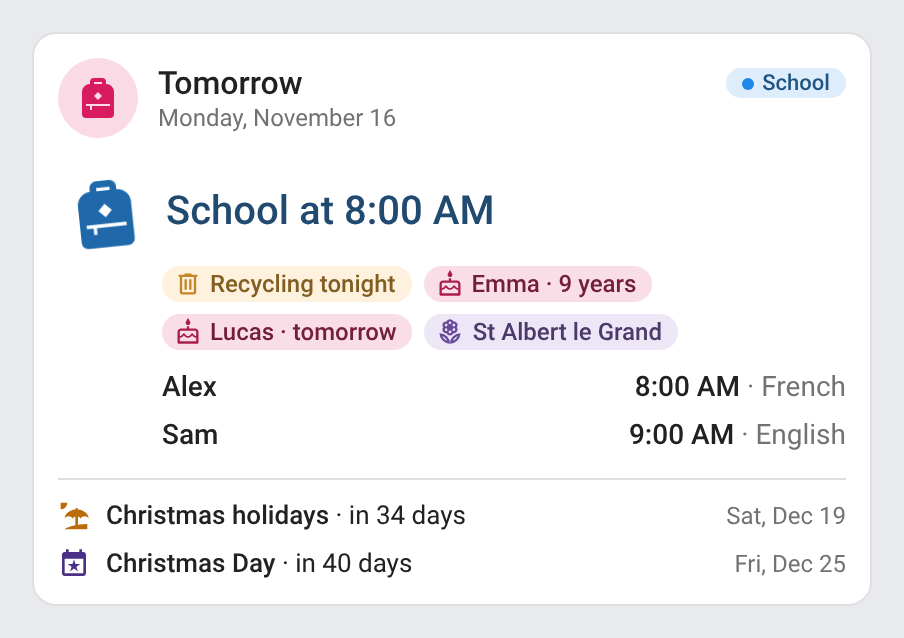
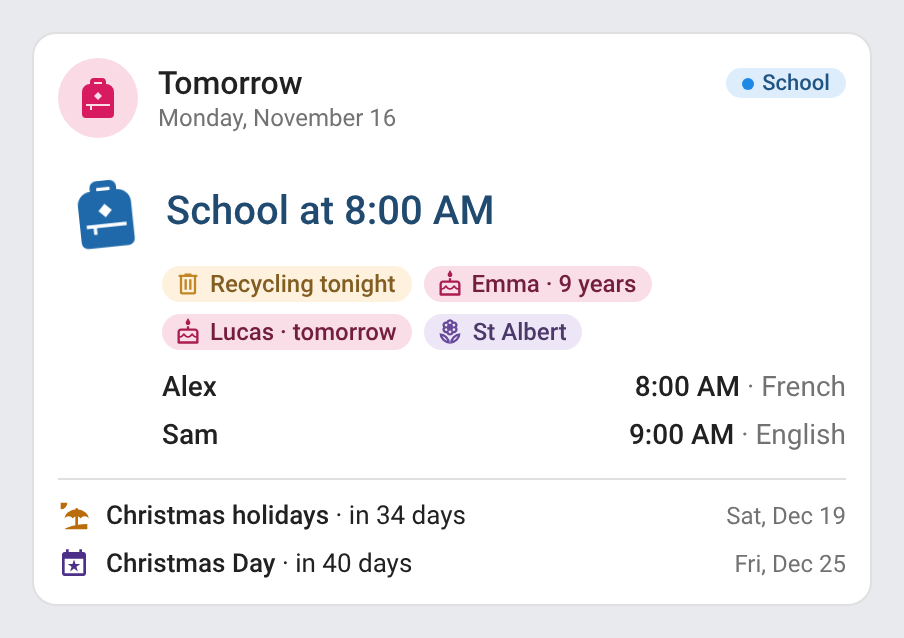
fix: traditional name day on the chip, data.gouv.fr saints in its tooltip (1.1.1) (#4)
The name day chip of 1.1.0 showed a saint of data.gouv.fr's *Les saints et fêtes du calendrier*: the liturgical saints, in alphabetical order, where the name day to wish is missing on 135 days of 366 (St Gaston, Ste Sophie, Ste Yvette…).

- The chip shows the name day of the traditional French calendar again (`NAME_DAYS`: St/Ste/Sts prefixes, feasts as they are).
- Its tooltip lists the saints of the day from the data set (`SAINTS`, unchanged: May/June fixed, accents and typos fixed).
- README and changelog updated; data.gouv.fr credit kept.

---
_Generated by [Claude Code](https://claude.ai/code/session_01F4sAmyxsoBJjEEpesKZnFY)_

Changed region(s): [[0.6195, 0.4765, 0.7743, 0.5658]]

diff --git a/src/family-day-card.js b/src/family-day-card.js
@@ -1270,7 +1270,8 @@ const CALENDAR_REFRESH_MS = 6 * 3600e3;
 // Open Licence: https://www.data.gouv.fr/datasets/les-saints-et-fetes-du-calendrier), one month per entry, days split
 // by "|", the saints of a day by ";". Fixed from the file of 2024-09-07: May and June put back in place (they are
 // swapped there, June with a 31st), broken accents and typos corrected, and on each day the saint of the traditional
-// French calendar of name days moved first when the data set has it (it gives the saints in alphabetical order).
+// French calendar of name days moved first when the data set has it (it gives the saints in alphabetical order). These
+// are the liturgical saints: the name days to wish (NAME_DAYS, below) are often not among them.
 const SAINTS = [
   "Jour de l'an;Ste Marie Mère de Dieu;Ste Euphrosine;St Odilon|St Basile le Grand;St Adélard (ou Adalhard);St Grégoire de Nazianze (le Jeune);St Macaire le Jeune|Ste Geneviève;Ste Bertille;St Daniel|Ste Angèle de Foligno;St Grégoire de Langres;St Marcien;St Robert de Reims|Ste Emilienne;St Télesphore|St Melaine de Rennes;St Balthazar;St Gaspard;St Guérin;St Melchior|St Raymond de Penyafort;St Aldric;St Canut Lavard;St Reynold|St Lucien;Ste Gudule|St Adrien de Canterbury;St Julien l'Hospitalier|St Guillaume de Bourges;Ste Séthride|Ste Fidelmie;St Théodose le Cénobiarque|St Arcade;Ste Césarie;Ste Tatienne (ou Tatiana)|St Hilaire de Poitiers;St Léonce de Césarée|St Engelmar;St Félix de Nole;Ste Macrine l'Ancienne|St Paul l'Ermite;Ste Tarcice|St Marcel 1er|St Antoine le Grand;St Sulpice le Pieux|Ste Prisque (ou Prisca);Ste Thècle|St Canut;Ste Messaline;Ste Pia|St Sébastien;St Fabien|Ste Agnès de Rome;St Fructueux|St Vincent Pallotti;St Vincent, Diacre|St Barnard;Ste Erémentienne;St Ildefonse de Tolède;Ste Lufthilde|St François de Sales|Conversion de St Paul|St Timothée;St Tite|Ste Angèle de Mérici;St Julien du Mans|St Callinique;Ste Cannera|St Gildas le Sage;St Valère;St Sulpice|Ste Martine;Ste Aldegonde;Ste Hyacinthe de Mariscotti|Ste Marcelle;St Cyrus;St Eusèbe, ermite;St Jean Bosco;St Zotique",
   "Ste Brigitte de Kildare;St Jean de la Grille;St Sévère de Ravenne|St Adalbaud;Chandeleur;Ste Hadéloge|St Blaise de Sébaste;St Anschaire|St André Corsini;St Gilbert de Sempringham;Ste Jeanne de Valois|Ste Agathe de Catane|Ste Dorothée;St Paul Miki|Ste Julienne de Bologne;St Chryseuil|St Jean de Matha;St Jérôme Emiliani|Ste Apolline|Ste Scholastique|Notre-Dame de Lourdes;St Adolphe|Ste Eulalie de Barcelone|Ste Béatrice d'Ornacieux;St Polyeucte|St Valentin;St Méthode|St Faustin;St Jovite|Ste Julienne de Nicomédie;St Onésime|St Polychrone;St Théodule|St Claude;St Flavien de Constantinople;St Fructule;Ste Gertrude Comensoli|St Gabin de Rome;St Boniface de Lausanne;St Conrad de Plaisance|Ste Aimée|St Pierre Damien|Chaire St Pierre Apôtre;Ste Marguerite de Cortone|St Lazare;St Polycarpe de Smyrne|St Modeste;Ste Primitive|St Césaire de Nazianze;St Tarasius;Ste Walburge|St Nestor;St Alexandre|Ste Honorine;St Gabriel de l'Addolorata|St Romain de Condat;St Hilaire, pape;St Théophile d'Adana|St Oswald de Worcester",
@@ -1285,11 +1286,32 @@ const SAINTS = [
   "Toussaint (tous les saints);St Austremoine;St Floribert;St Mathurin|Défunts;St Anempodiste;St Elpidephore|St Hubert;St Gwénaël;St Martin de Porrès|St Charles Borromée;St Porphyre|Ste Elisabeth (mère de Jean-Baptiste);St Zacharie (père de Jean-Baptiste)|St Léonard de Noblac|Ste Carine;St Ernest;St Florent de Strasbourg;St Willibrord|St Geoffroy (ou Godefroy);St Maur|St Théodore le Tiron|St Léon le Grand;St André Avellin;St Tryphon|St Martin de Tours;St Théodore le Studite|St Christin;St Josaphat|St Brice;St Didace;St Nicolas 1er le Grand|St Saens;St Sérapion|St Albert le Grand|Ste Marguerite d'Ecosse;Ste Gertrude la Grande|Ste Elisabeth de Hongrie;St Aignan;St Grégoire le Thaumaturge|St Hésyque d'Antioche;St Mummole;St Pierre, apôtre;St Tanguy|Ste Ermenburge;St Exupère|St Edmond;St Félix de Valois;St Octave|Ste Amalberge;Présence de Marie|Ste Cécile;Ste Appia;St Philémon|St Clément 1er|Ste Flora;St Chrysogone;Ste Maria;St Romain du Mans|Ste Catherine d'Alexandrie;Ste Joconde;St Moïse|Ste Delphine;St Conrad de Constance;St Gautier d'Aulne|St Séverin;St Maxime de Riez|St Jacques de la Marche;Ste Catherine Labouré;St Sosthène|St Saturnin;St Hilaire;Ste Illuminée|St André, apôtre;Ste Justine",
   "St Diodore;St Eloi|Ste Viviane (ou Bibiane);Ste Aurélie|St François-Xavier|Ste Barbe;St Jean Damascène|St Gérard;St Nicet;St Sabbas|St Nicolas de Myre|St Ambroise de Milan;St Agathon|Immaculée conception;Ste Gonthilde;St Romaric|St Pierre Fourier;Ste Léocadie|St Miltiade|St Daniel le Stylite;St Damasse 1er|Ste Jeanne-Françoise de Chantal|Ste Lucie de Syracuse;St Josse de Bretagne;Ste Odile|St Jean de la Croix|Ste Ninon;Ste Marie Crucifiée de Rose|Ste Adélaïde;St Adon|St Calanique;St Judicaël;Ste Olympiade|St Gatien;St Zozime|St Urbain IV;St Nemèse|St Théophile;St Ammon|St Pierre Casinius;St Dioscore;St Honorat de Toulouse;St Thémistocle|Ste Françoise-Xavière Cabrini;St Flavien;St Zénon|Ste Anatolie;St Servule;Ste Victoire|Ste Adèle;St Delphin;Ste Irmine;St Métrobe|Noël;Ste Adalsinde;Ste Alburge|St Etienne de Protomartyr;St Denys|St Jean l'Evangéliste, apôtre|Sts Innocents|St David;St Thomas Becket|St Sabin (ou Sabinien)|St Sylvestre;Ste Colombe de Sens;Ste Mélanie la Jeune;St Potentin"
 ].map((m) => m.split("|").map((d) => d.split(";")));
-/** The saints of a day ("YYYY-MM-DD"): { name (the first, short: "St Martin de Tours", "Toussaint"), all }, or null. */
+// Name days of the traditional French calendar (the "fêtes à souhaiter"), one month per entry, one day per name: a
+// plain name is a saint (St), "*" a female saint (Ste), "+" several (Sts), "!" a feast. The chip shows them; its
+// tooltip lists the saints of the day from the data set above.
+const NAME_DAYS = [
+  "!Jour de l'An|Basile|*Geneviève|Odilon|Édouard|Mélaine|Raymond|Lucien|*Alix|Guillaume|Paulin|*Tatiana|*Yvette|*Nina|Rémi|Marcel|*Roseline|*Prisca|Marius|Sébastien|*Agnès|Vincent|Barnard|François de Sales|!Conversion de saint Paul|*Paule|*Angèle|Thomas d'Aquin|Gildas|*Martine|*Marcelle",
+  "*Ella|!Présentation du Seigneur|Blaise|*Véronique|*Agathe|Gaston|*Eugénie|*Jacqueline|*Apolline|Arnaud|!Notre-Dame de Lourdes|Félix|*Béatrice|Valentin|Claude|*Julienne|Alexis|*Bernadette|Gabin|*Aimée|Pierre Damien|*Isabelle|Lazare|Modeste|Roméo|Nestor|*Honorine|Romain|Auguste",
+  "Aubin|Charles le Bon|Guénolé|Casimir|*Olive|*Colette|*Félicité|Jean de Dieu|*Françoise|Vivien|*Rosine|*Justine|Rodrigue|*Mathilde|*Louise|*Bénédicte|Patrice|Cyrille|Joseph|Herbert|*Clémence|*Léa|Victorien|*Catherine de Suède|!Annonciation|*Larissa|Habib|Gontran|*Gwladys|Amédée|Benjamin",
+  "Hugues|*Sandrine|Richard|Isidore|*Irène|Marcellin|Jean-Baptiste de La Salle|*Julie|Gautier|Fulbert|Stanislas|Jules|*Ida|Maxime|Paterne|Benoît-Joseph|Anicet|Parfait|*Emma|*Odette|Anselme|Alexandre|Georges|Fidèle|Marc|*Alida|*Zita|*Valérie|*Catherine de Sienne|Robert",
+  "!Fête du Travail|Boris|+Philippe et Jacques|Sylvain|*Judith|*Prudence|*Gisèle|Désiré|Pacôme|*Solange|*Estelle|Achille|*Rolande|Matthias|*Denise|Honoré|Pascal|Éric|Yves|Bernardin|Constantin|Émile|Didier|Donatien|*Sophie|Bérenger|Augustin de Cantorbéry|Germain|Aymar|Ferdinand|!Visitation",
+  "Justin|*Blandine|Kévin|*Clotilde|Igor|Norbert|Gilbert|Médard|*Diane|Landry|Barnabé|Guy|Antoine de Padoue|Élisée|*Germaine|Jean-François Régis|Hervé|Léonce|Romuald|Silvère|Rodolphe|Alban|*Audrey|Jean-Baptiste|Prosper|Anthelme|Fernand|Irénée|+Pierre et Paul|Martial",
+  "Thierry|Martinien|Thomas|Florent|Antoine|*Mariette|Raoul|Thibaut|*Amandine|Ulrich|Benoît|Olivier|+Henri et Joël|!Fête nationale|Donald|!Notre-Dame du Mont-Carmel|*Charlotte|Frédéric|Arsène|*Marina|Victor|*Marie-Madeleine|*Brigitte|*Christine|Jacques|+Anne et Joachim|*Nathalie|Samson|*Marthe|*Juliette|Ignace de Loyola",
+  "Alphonse|Julien Eymard|*Lydie|Jean-Marie Vianney|Abel|!Transfiguration|Gaétan|Dominique|Amour|Laurent|*Claire|*Clarisse|Hippolyte|Evrard|!Assomption|Armel|Hyacinthe|*Hélène|Jean Eudes|Bernard|Christophe|Fabrice|*Rose de Lima|Barthélemy|Louis|*Natacha|*Monique|Augustin|*Sabine|Fiacre|Aristide",
+  "Gilles|*Ingrid|Grégoire|*Rosalie|*Raïssa|Bertrand|*Reine|!Nativité de Marie|Alain|*Inès|Adelphe|Apollinaire|Aimé|!Croix glorieuse|Roland|*Édith|Renaud|*Nadège|*Émilie|Davy|Matthieu|Maurice|Constant|*Thècle|Hermann|+Côme et Damien|Vincent de Paul|Venceslas|+Michel, Gabriel et Raphaël|Jérôme",
+  "*Thérèse de l'Enfant-Jésus|Léger|Gérard|François d'Assise|*Fleur|Bruno|Serge|*Pélagie|Denis|Ghislain|Firmin|Wilfried|Géraud|Juste|*Thérèse d'Avila|*Edwige|Baudouin|Luc|René|*Adeline|*Céline|*Élodie|Jean de Capistran|Florentin|Crépin|Dimitri|*Émeline|+Simon et Jude|Narcisse|*Bienvenue|Quentin",
+  "!Toussaint|!Défunts|Hubert|Charles|*Sylvie|*Bertille|*Carine|Geoffroy|Théodore|Léon|Martin|Christian|Brice|Sidoine|Albert|*Marguerite|*Élisabeth|*Aude|Tanguy|Edmond|!Présentation de Marie|*Cécile|Clément|*Flora|*Catherine|*Delphine|Séverin|Jacques de la Marche|Saturnin|André",
+  "*Florence|*Viviane|François-Xavier|*Barbara|Gérald|Nicolas|Ambroise|!Immaculée Conception|Pierre Fourier|Romaric|Daniel|*Jeanne-Françoise de Chantal|*Lucie|*Odile|*Ninon|*Alice|Gaël|Gatien|Urbain|Théophile|Pierre Canisius|*Françoise-Xavière|Armand|*Adèle|!Noël|Étienne|Jean|!Saints Innocents|David|Roger|Sylvestre",
+].map((m) => m.split("|"));
+/** The name day of a day ("YYYY-MM-DD"): { name ("St Martin", "Ste Cécile", "Sts Pierre et Paul", "Toussaint"),
+ *  all (the saints of the day, from the data set) }, or null. */
 const saintOf = (key) => {
-  const all = SAINTS[Number(key.slice(5, 7)) - 1]?.[Number(key.slice(8, 10)) - 1];
-  if (!all?.length) return null;
-  return { name: all[0].replace(/\s*\(.*\)\s*$/, "").replace(/,.*$/, "").trim(), all };
+  const m = Number(key.slice(5, 7)) - 1;
+  const d = Number(key.slice(8, 10)) - 1;
+  const raw = NAME_DAYS[m]?.[d];
+  if (!raw) return null;
+  const prefix = { "*": "Ste ", "+": "Sts ", "!": "" }[raw[0]];
+  return { name: prefix === undefined ? `St ${raw}` : prefix + raw.slice(1), all: SAINTS[m]?.[d] || [] };
 };
 
 // Bin collection calendars and birthday calendars, by integration or by name (any language the card speaks).
@@ -2062,7 +2084,7 @@ class FamilyDayBase extends HTMLElement {
       ...x.birthdays.map((b) =>
         chip("x-birthday", ICONS.cake, [b.name, b.age !== null ? years(b.age) : "", b.tomorrow ? fmtRel(1, L) : ""].filter(Boolean).join(" · "), this._t("birthday_title"), b.id),
       ),
-      ...(x.saint ? [chip("x-saint", ICONS.flower, x.saint.name, `${this._t("saint_title")} : ${x.saint.all.join(", ")}`)] : []),
+      ...(x.saint ? [chip("x-saint", ICONS.flower, x.saint.name, [this._t("saint_title"), x.saint.all.join(", ")].filter(Boolean).join(" : "))] : []),
     ];
     return chips.length ? `<div class="extras${cls}">${chips.join("")}</div>` : "";
   }

diff --git a/README.md b/README.md
@@ -36,7 +36,7 @@ Made for French families: the school holidays come from the education ministry's
 - **One row per child** on a school day, from Pronote: the time of the first lesson and its subject (a cancelled lesson is skipped), **No lessons**, or **Timetable not known yet**
 - **School holidays**: the next ones with a countdown (**Christmas holidays · in 34 days**), or, during the holidays, a progress bar with the day back at school (**back in 7 days**, day 10 of 16)
 - **Next public holiday** with its date and countdown
-- **Chips under the answer**: tomorrow's **bin collections** (**Recycling tonight**, tinted with the colour of the bin), **today's and tomorrow's birthdays** from a calendar (**Emma · 9 years**, **Lucas · tomorrow**) and, in French, **today's saints** (**St Albert le Grand**); each opens its calendar, and the mini card shows them under its header
+- **Chips under the answer**: tomorrow's **bin collections** (**Recycling tonight**, tinted with the colour of the bin), **today's and tomorrow's birthdays** from a calendar (**Emma · 9 years**, **Lucas · tomorrow**) and, in French, **today's name day** (**St Albert**); each opens its calendar, and the mini card shows them under its header
 - Mini card: one line for tomorrow (**Tomorrow: school 8:00 AM** / **No school tomorrow**), the holidays countdown under it and the pill; its **detail button** (top right) unfolds the full card, and a click anywhere outside the card folds it back
 - Click the answer, a child or a line to open its source in Home Assistant (more-info dialog)
 - Visual editor in the dashboard UI for both cards (the list of children stays in YAML)
@@ -283,7 +283,7 @@ The chips sit under the answer on the full card and under the header on the mini
 
 - **Bins**: every event of the bin calendars that starts tomorrow, one chip per kind (**Recycling tonight**). Its colour comes from the words of its kind: yellow (packaging, `jaune`, `recycling`), blue (paper), brown (food and garden waste, `bio`), green (glass, `verre`), grey (household waste, `ordures ménagères`), else amber.
 - **Birthdays**: the events of today and tomorrow of the birthday calendars, today's first. The name is the event's title without the birthday words (`Anniversaire de Léa`, `Léa's birthday` → `Léa`); a birth year in the title or the description (`née en 2017`) gives the age.
-- **Name day**: today's saints, from the open data set [Les saints et fêtes du calendrier](https://www.data.gouv.fr/datasets/les-saints-et-fetes-du-calendrier) of data.gouv.fr, built into the card. The chip shows the saint of the traditional French calendar of name days when the data set has it, else the first of the day (**St Albert le Grand**, **Ste Cécile**, **Toussaint**); its tooltip lists every saint of the day. It is on by default when the card speaks French.
+- **Name day**: today's name day of the traditional French calendar (the *fêtes à souhaiter*), built into the card: **St Albert**, **Ste Cécile**, or the feast (**Toussaint**). Its tooltip lists the saints of the day from the open data set [Les saints et fêtes du calendrier](https://www.data.gouv.fr/datasets/les-saints-et-fetes-du-calendrier) of data.gouv.fr (the liturgical saints, where the name day is often missing). It is on by default when the card speaks French.
 
 ## Development
 
@@ -340,7 +340,7 @@ The Pronote logo comes from the [Home Assistant brands](https://github.com/home-
 
 ## Data
 
-The saints of the name day chip come from [Les saints et fêtes du calendrier](https://www.data.gouv.fr/datasets/les-saints-et-fetes-du-calendrier) (data.gouv.fr), under the [Licence Ouverte / Open Licence](https://www.etalab.gouv.fr/licence-ouverte-open-licence/), version of 2024-09-07, with May and June put back in place, accents and typos fixed and the days' saints reordered.
+The saints listed in the tooltip of the name day chip come from [Les saints et fêtes du calendrier](https://www.data.gouv.fr/datasets/les-saints-et-fetes-du-calendrier) (data.gouv.fr), under the [Licence Ouverte / Open Licence](https://www.etalab.gouv.fr/licence-ouverte-open-licence/), version of 2024-09-07, with May and June put back in place, accents and typos fixed and the days' saints reordered.
 
 ## License
 

diff --git a/CHANGELOG.md b/CHANGELOG.md
@@ -1,5 +1,10 @@
 # Changelog
 
+## 1.1.1 - 2026-11-14
+
+### Fixes
+- Name day chip: it shows the name day to wish of the traditional French calendar again (**St Gaston** on February 6, **Ste Sophie** on May 25), not the first liturgical saint of the day. data.gouv.fr's data set lists the liturgical saints, where 135 name days of 366 are missing; its saints of the day stay in the chip's tooltip.
+
 ## 1.1.0 - 2026-11-14
 
 ### Features
